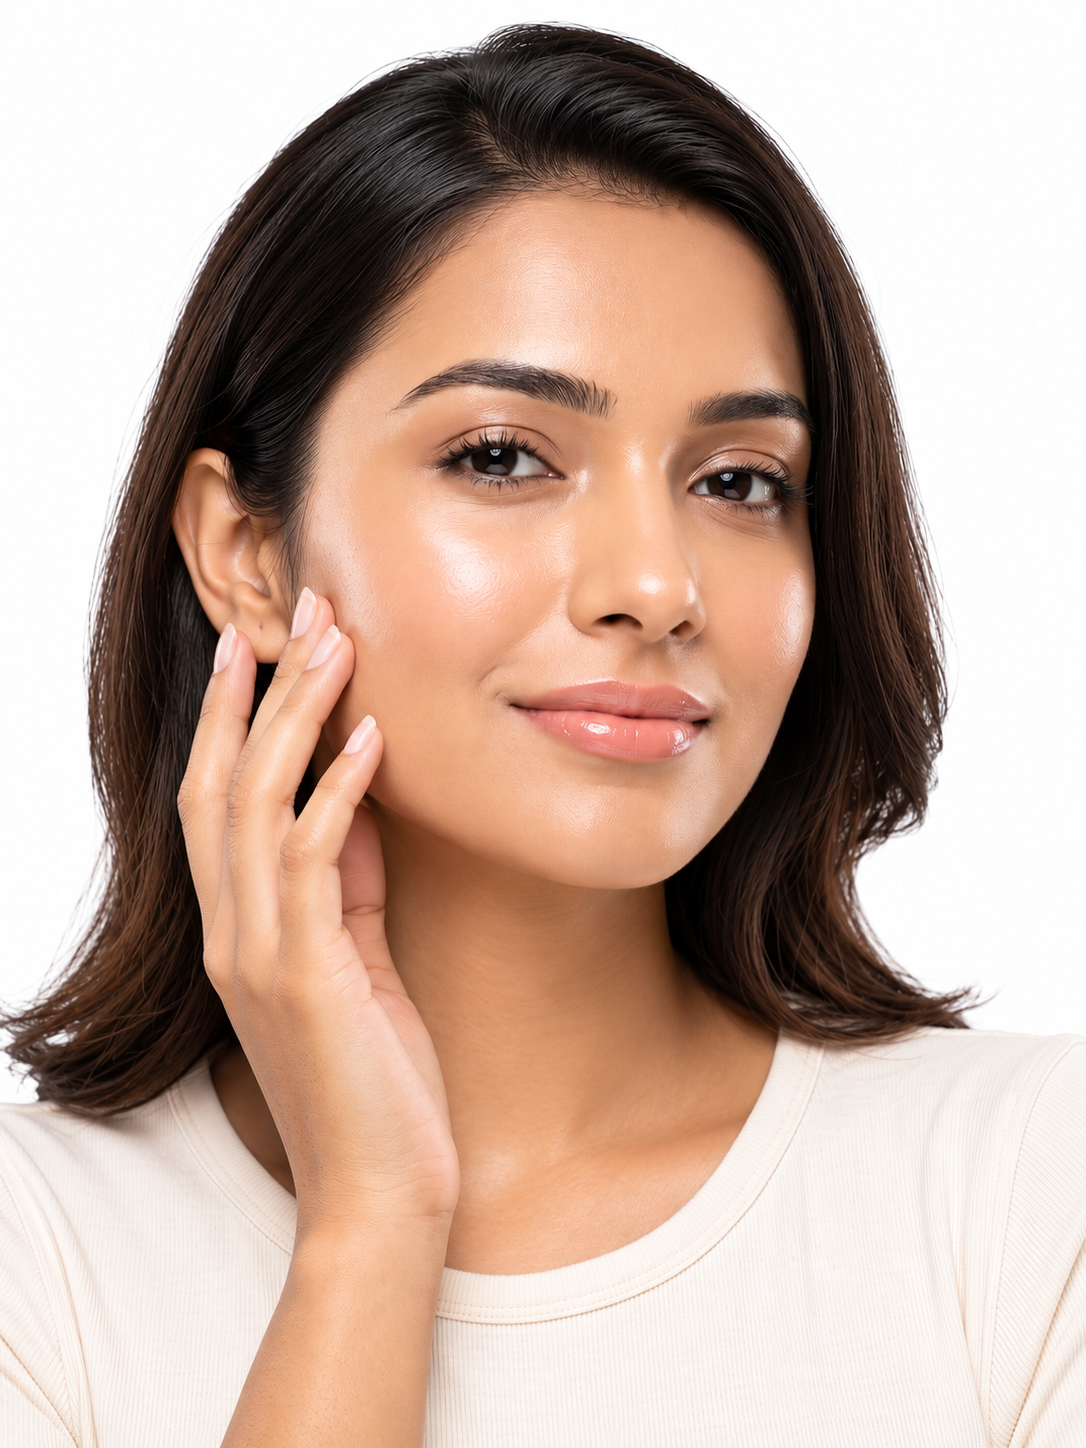
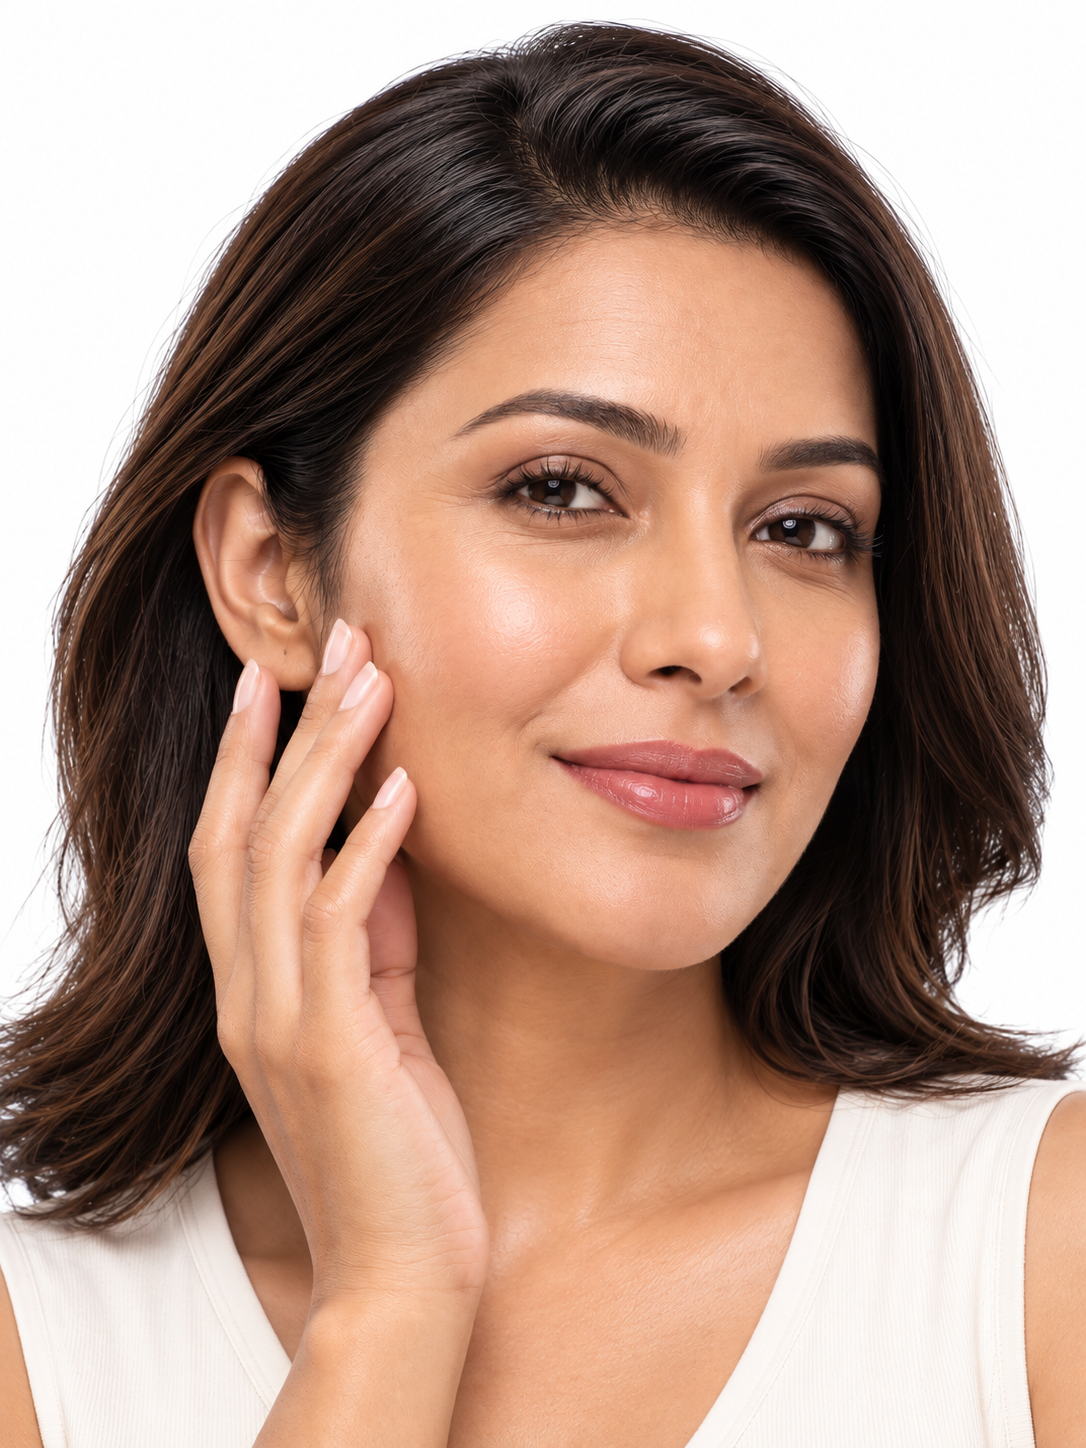
Photo updates

diff --git a/index.html b/index.html
@@ -1307,7 +1307,7 @@
 		        <!-- Header -->
 		        <header class="concerns-header">
 		            <span class="section-tag">Why It Matters</span>
-		            <h2>Liposomal serums<br>solve <em>hidden problems</em></h2>
+		            <h2>Liposomal Serums<br>solve <em>hidden problems</em></h2>
 		            <p>Most skincare products fail where it matters most. SiNORA's liposomal technology directly addresses every limitation of conventional formulas.</p>
 		        </header>
 
